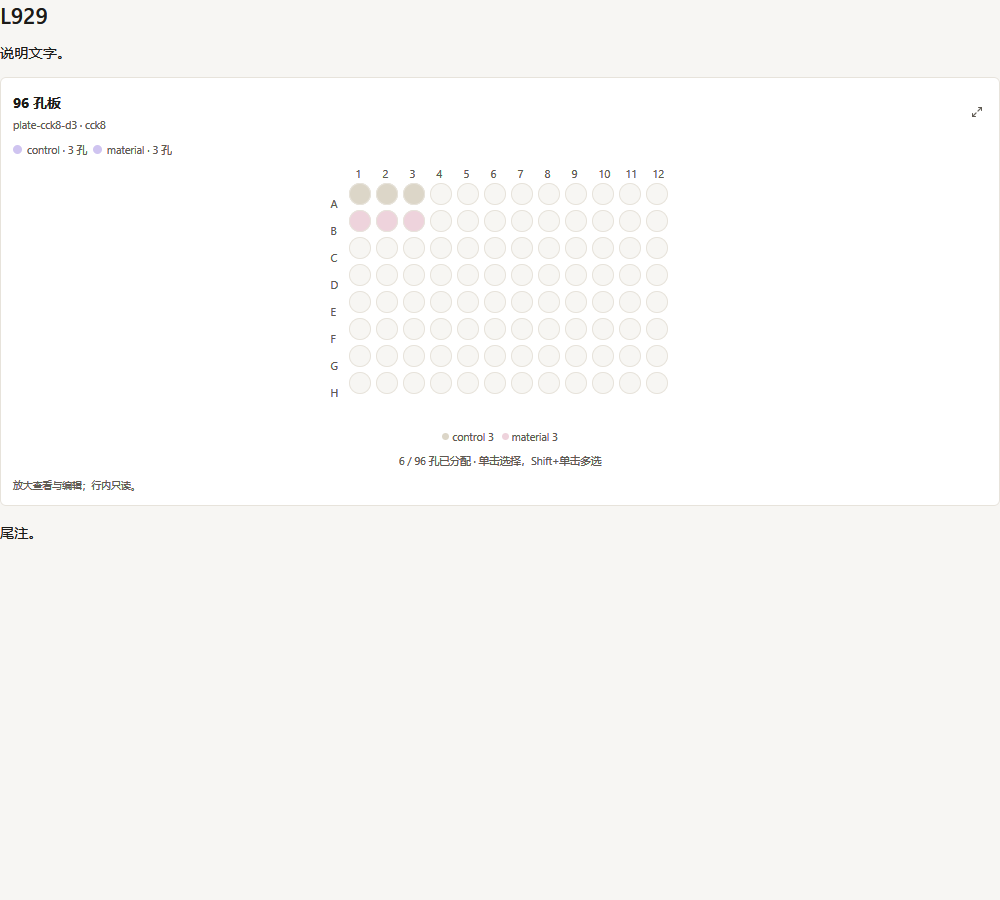
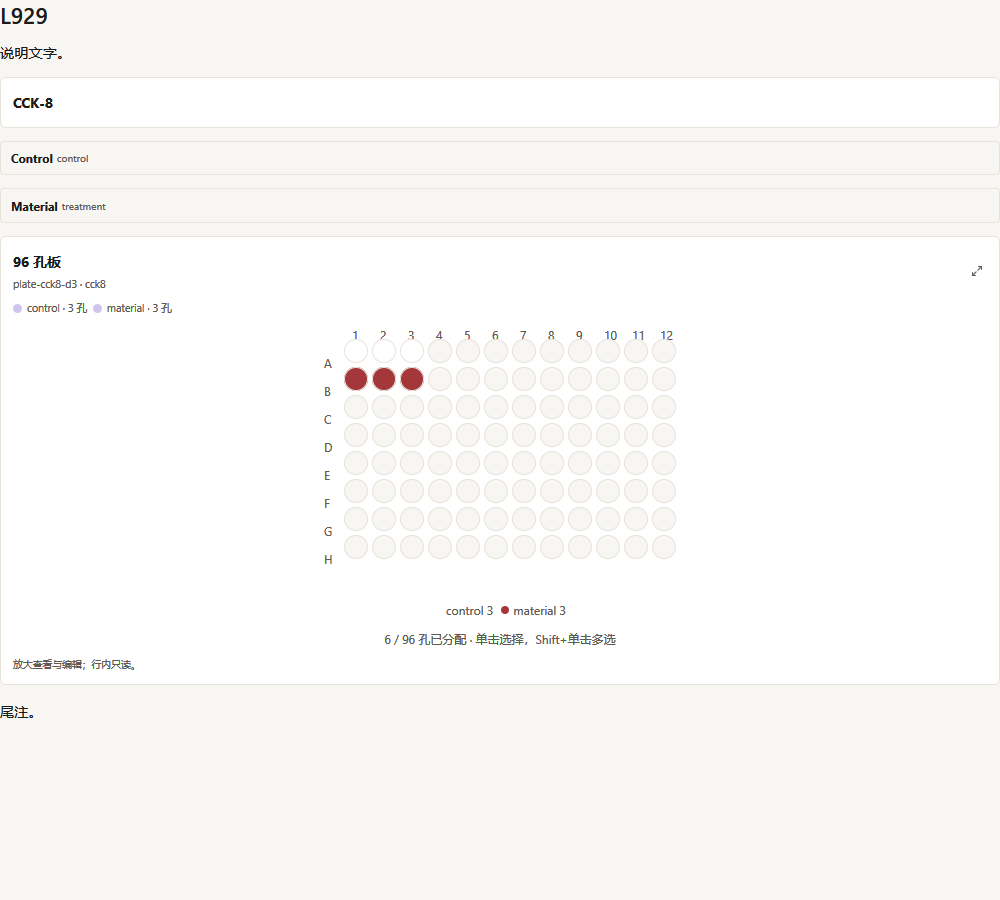
feat(design): fixed plate editor canvas with scaled wells
- Expanded plate editor keeps one 384-well-sized viewport at a given zoom; wells scale to fit; grid centered with drag offset compensation.
- Zoom, row/column, drag, group assignment, and compact inline preview unchanged; regression test pins shared viewport and monotonic well sizing.
- Evidence README: fixed-canvas behavior, UX-P3/P4/LAYOUT/DONE/DESIGN, exact test output, Tester captures incl. prep-calculator link surface; OperationSpec v2 budget note untouched.

diff --git a/prototypes/mygo-run/internal/asterdoc/view.go b/prototypes/mygo-run/internal/asterdoc/view.go
@@ -209,6 +209,34 @@ func (v *View) plate(c *ui.Context, p *Plate) {
 	})
 }
 
+const (
+	plateGridLabelWidth   = float32(24)
+	plateGridHeaderHeight = float32(18)
+	plateGridGap          = float32(4)
+	plateGridWellSize     = float32(18)
+)
+
+// ponytail: the canvas is sized for the largest supported 384-well plate; grow it if larger formats are added.
+func plateGridLayout(geometry Geometry, zoom float32) (viewportW, viewportH, cell float32) {
+	maxGeometry, _ := geometryFor(384)
+	viewportW = plateGridLabelWidth + plateGridGap +
+		float32(maxGeometry.Columns)*plateGridWellSize*zoom +
+		float32(maxGeometry.Columns-1)*plateGridGap
+	viewportH = plateGridHeaderHeight + plateGridGap +
+		float32(maxGeometry.Rows)*plateGridWellSize*zoom +
+		float32(maxGeometry.Rows-1)*plateGridGap
+
+	cellW := (viewportW - plateGridLabelWidth - plateGridGap -
+		float32(geometry.Columns-1)*plateGridGap) / float32(geometry.Columns)
+	cellH := (viewportH - plateGridHeaderHeight - plateGridGap -
+		float32(geometry.Rows-1)*plateGridGap) / float32(geometry.Rows)
+	cell = cellW
+	if cellH < cell {
+		cell = cellH
+	}
+	return viewportW, viewportH, cell
+}
+
 // plateOverlay floats the enlarged plate over a dimmed canvas. There is no
 // modal panel or inspector: the plate itself is the surface, with one floating
 // toolbar for zoom, group choice and batch assignment.
@@ -346,10 +374,14 @@ func (v *View) plateOverlay(c *ui.Context) {
 								}
 							})
 						})
-						cell := float32(30) * zoom
-						if plate.Format == 384 {
-							cell = 18 * zoom
-						}
+						viewportW, viewportH, cell := plateGridLayout(geometry, zoom)
+						gridW := plateGridLabelWidth + plateGridGap +
+							float32(geometry.Columns)*cell +
+							float32(geometry.Columns-1)*plateGridGap
+						gridH := plateGridHeaderHeight + plateGridGap +
+							float32(geometry.Rows)*cell +
+							float32(geometry.Rows-1)*plateGridGap
+						offsetX, offsetY := (viewportW-gridW)/2, (viewportH-gridH)/2
 						selectMany := func(ids []string, additive bool) {
 							if !additive {
 								v.ExpandedWells = nil
@@ -360,80 +392,82 @@ func (v *View) plateOverlay(c *ui.Context) {
 								}
 							}
 						}
-						const labelW = float32(24)
-						const headerH = float32(18)
-						const gap = float32(4)
-						grid := ui.Box(c).Key("plate-grid").Children(func() {
-							ui.Row(c).Gap(gap).Children(func() {
-								ui.Box(c).Width(labelW).Height(headerH)
-								for col := 1; col <= geometry.Columns; col++ {
-									col := col
-									btn := ui.ButtonBase(c).Width(cell).Height(headerH).
-										Label(fmt.Sprintf("选择第 %d 列", col))
-									btn.Children(func() {
-										ui.Text(c, fmt.Sprintf("%d", col)).FontSize(t.Rem(.62)).
-											TextColor(t.TextMuted).Center()
-									})
-									if btn.Clicked() && !v.gridDragging {
-										ids := make([]string, 0, geometry.Rows)
-										for row := 0; row < geometry.Rows; row++ {
-											ids = append(ids, fmt.Sprintf("%s%d", rowLabel(row), col))
-										}
-										selectMany(ids, btn.ClickModifiers()&(ui.Shift|ui.Cmd) != 0)
-									}
-								}
-							})
-							for row := 0; row < geometry.Rows; row++ {
-								row := row
-								ui.Row(c).Gap(gap).Children(func() {
-									btn := ui.ButtonBase(c).Width(labelW).Height(cell).
-										Label("选择第 " + rowLabel(row) + " 行")
-									btn.Children(func() {
-										ui.Text(c, rowLabel(row)).FontSize(t.Rem(.62)).TextColor(t.TextMuted).Center()
-									})
-									if btn.Clicked() && !v.gridDragging {
-										ids := make([]string, 0, geometry.Columns)
-										for col := 1; col <= geometry.Columns; col++ {
-											ids = append(ids, fmt.Sprintf("%s%d", rowLabel(row), col))
-										}
-										selectMany(ids, btn.ClickModifiers()&(ui.Shift|ui.Cmd) != 0)
-									}
+						grid := ui.Box(c).Key("plate-grid").Size(viewportW, viewportH).Children(func() {
+							ui.Column(c).Fill().AlignItems(ui.Center).Justify(ui.Center).Children(func() {
+								ui.Row(c).Gap(plateGridGap).Children(func() {
+									ui.Box(c).Width(plateGridLabelWidth).Height(plateGridHeaderHeight)
 									for col := 1; col <= geometry.Columns; col++ {
-										well := fmt.Sprintf("%s%d", rowLabel(row), col)
-										group := wells[well]
-										selected := containsString(v.ExpandedWells, well)
-										bg := t.Background
-										if group != "" {
-											bg = groupColor(group)
-										}
-										border := t.Border
-										width := float32(1)
-										if selected {
-											border, width = t.Accent, 2
-										}
-										btn := ui.ButtonBase(c).Key(well).Size(cell, cell).Radius(cell/2).
-											Background(bg).Border(width, border).Label("孔 " + well)
+										col := col
+										btn := ui.ButtonBase(c).Width(cell).Height(plateGridHeaderHeight).
+											Label(fmt.Sprintf("选择第 %d 列", col))
+										btn.Children(func() {
+											ui.Text(c, fmt.Sprintf("%d", col)).FontSize(t.Rem(.62)).
+												TextColor(t.TextMuted).Center()
+										})
 										if btn.Clicked() && !v.gridDragging {
-											mods := btn.ClickModifiers()
-											if mods&(ui.Shift|ui.Cmd) != 0 {
-												if selected {
-													v.ExpandedWells = removeString(v.ExpandedWells, well)
-												} else {
-													v.ExpandedWells = append(v.ExpandedWells, well)
-												}
-											} else {
-												v.ExpandedWells = []string{well}
+											ids := make([]string, 0, geometry.Rows)
+											for row := 0; row < geometry.Rows; row++ {
+												ids = append(ids, fmt.Sprintf("%s%d", rowLabel(row), col))
 											}
+											selectMany(ids, btn.ClickModifiers()&(ui.Shift|ui.Cmd) != 0)
 										}
 									}
 								})
-							}
+								for row := 0; row < geometry.Rows; row++ {
+									row := row
+									ui.Row(c).Gap(plateGridGap).Children(func() {
+										btn := ui.ButtonBase(c).Width(plateGridLabelWidth).Height(cell).
+											Label("选择第 " + rowLabel(row) + " 行")
+										btn.Children(func() {
+											ui.Text(c, rowLabel(row)).FontSize(t.Rem(.62)).TextColor(t.TextMuted).Center()
+										})
+										if btn.Clicked() && !v.gridDragging {
+											ids := make([]string, 0, geometry.Columns)
+											for col := 1; col <= geometry.Columns; col++ {
+												ids = append(ids, fmt.Sprintf("%s%d", rowLabel(row), col))
+											}
+											selectMany(ids, btn.ClickModifiers()&(ui.Shift|ui.Cmd) != 0)
+										}
+										for col := 1; col <= geometry.Columns; col++ {
+											well := fmt.Sprintf("%s%d", rowLabel(row), col)
+											group := wells[well]
+											selected := containsString(v.ExpandedWells, well)
+											bg := t.Background
+											if group != "" {
+												bg = groupColor(group)
+											}
+											border := t.Border
+											width := float32(1)
+											if selected {
+												border, width = t.Accent, 2
+											}
+											btn := ui.ButtonBase(c).Key(well).Size(cell, cell).Radius(cell/2).
+												Background(bg).Border(width, border).Label("孔 " + well)
+											if btn.Clicked() && !v.gridDragging {
+												mods := btn.ClickModifiers()
+												if mods&(ui.Shift|ui.Cmd) != 0 {
+													if selected {
+														v.ExpandedWells = removeString(v.ExpandedWells, well)
+													} else {
+														v.ExpandedWells = append(v.ExpandedWells, well)
+													}
+												} else {
+													v.ExpandedWells = []string{well}
+												}
+											}
+										}
+									})
+								}
+							})
 						})
 						grid.Draggable(&v.gridDrag, ui.DraggableOptions{})
 						if grid.Dragging() {
 							px, py, ok := grid.PointerPosition()
 							if ok {
-								local := ui.Point{X: px - labelW - gap, Y: py - headerH - gap}
+								local := ui.Point{
+									X: px - offsetX - plateGridLabelWidth - plateGridGap,
+									Y: py - offsetY - plateGridHeaderHeight - plateGridGap,
+								}
 								if !v.gridDragging {
 									v.gridDragging = true
 									v.gridStart, v.gridLast = local, local
@@ -445,7 +479,7 @@ func (v *View) plateOverlay(c *ui.Context) {
 								v.gridLast = local
 								r := ui.Rect{X: v.gridStart.X, Y: v.gridStart.Y,
 									W: local.X - v.gridStart.X, H: local.Y - v.gridStart.Y}
-								selected := WellsInRect(geometry, cell, gap, r)
+								selected := WellsInRect(geometry, cell, plateGridGap, r)
 								v.ExpandedWells = append([]string(nil), v.gridBase...)
 								for _, id := range selected {
 									if !containsString(v.ExpandedWells, id) {

diff --git a/prototypes/mygo-run/internal/asterdoc/asterdoc_test.go b/prototypes/mygo-run/internal/asterdoc/asterdoc_test.go
@@ -329,6 +329,39 @@ func TestPlateFormatsUseEditableOverlay(t *testing.T) {
 	}
 }
 
+func TestPlateGridLayoutKeepsCanvasAndScalesWells(t *testing.T) {
+	formats := []int{6, 12, 24, 48, 96, 384}
+	var viewportW, viewportH, previousCell float32
+	for i, format := range formats {
+		geometry, ok := geometryFor(format)
+		if !ok {
+			t.Fatalf("%d-well geometry is unavailable", format)
+		}
+		width, height, cell := plateGridLayout(geometry, 1)
+		if i == 0 {
+			viewportW, viewportH = width, height
+		} else if width != viewportW || height != viewportH {
+			t.Fatalf("%d-well viewport = %gx%g; want %gx%g",
+				format, width, height, viewportW, viewportH)
+		}
+		if i > 0 && cell >= previousCell {
+			t.Fatalf("%d-well cell = %g; want smaller than %g",
+				format, cell, previousCell)
+		}
+		gridW := plateGridLabelWidth + plateGridGap +
+			float32(geometry.Columns)*cell +
+			float32(geometry.Columns-1)*plateGridGap
+		gridH := plateGridHeaderHeight + plateGridGap +
+			float32(geometry.Rows)*cell +
+			float32(geometry.Rows-1)*plateGridGap
+		if gridW > width+0.01 || gridH > height+0.01 {
+			t.Fatalf("%d-well grid %gx%g exceeds viewport %gx%g",
+				format, gridW, gridH, width, height)
+		}
+		previousCell = cell
+	}
+}
+
 func TestHUVECTubeExperimentParses(t *testing.T) {
 	raw, err := os.ReadFile("testdata/huvec-tube.asterml")
 	if err != nil {

diff --git a/docs/product/evidence/UI-DES-10/README.md b/docs/product/evidence/UI-DES-10/README.md
@@ -2,11 +2,12 @@
 
 ## Design consistency
 
-The plate renderer extends the existing `internal/uikit/plate` widget and uses the shared `theme.GetTokens` palette and spacing/type scale; the Design budget bar remains the existing `internal/designer` bar and keeps Core and annotation values source-labeled and separate.
+The plate renderer extends the existing `internal/uikit/plate` widget and uses the shared `theme.GetTokens` palette and spacing/type scale. The expanded editor keeps a fixed 384-well-sized canvas across plate formats and scales well size to fit; the inline read-only preview remains compact. The grid is centered in the fixed viewport and the drag-marquee mapping subtracts that centering offset, so row/column selection and drag selection behave the same on every format. The Design budget bar remains the existing `internal/designer` bar and keeps Core and annotation values source-labeled and separate.
+UX rules: `UX-P3`, `UX-P4`, `UX-LAYOUT`, `UX-DONE`, `UX-DESIGN`.
 
 ## Screenshot evidence
 
-Captured from the rebuilt app at build stamp `608b57d` using `mygo-automation` and the isolated `DES-10 Plate Geometry` fixture. Window sizes are logical DIPs; Windows 150% scaling produces 2018×1308 and 1328×888 PNGs.
+Full-app captures (build stamp `608b57d`, `mygo-automation`, isolated `DES-10 Plate Geometry` fixture; logical DIPs, Windows 150% scaling produces 2018×1308 and 1328×888 PNGs). They predate the fixed-canvas change and remain the toolbar / dark-mode / budget-bar record:
 
 - [plate-12-light-900x600.png](plate-12-light-900x600.png) — light, 12 wells, C4 selected; budget bar visible.
 - [plate-12-dark-900x600.png](plate-12-dark-900x600.png) — dark, 12 wells, C4 selected; budget bar visible.
@@ -14,9 +15,25 @@ Captured from the rebuilt app at build stamp `608b57d` using `mygo-automation` a
 - [plate-384-light-1360x880.png](plate-384-light-1360x880.png) — light, 384 wells, P24 selected and assigned to `g-control`.
 - [plate-384-dark-1360x880.png](plate-384-dark-1360x880.png) — dark, 384 wells, P24 selected and assigned to `g-control`.
 
-All captures show the `设计标注` fallback with Core budget fields `—` and no OperationSpec v2 time data; the sources are not combined. `internal/asterdoc` tests cover interactive 6/12/24/48/96/384 geometry. The legacy assay assignment path remains 12-well-specific.
+Post-change captures rendered through the `ui.Tester` harness against the production overlay / Design code (1200×900 and 900×600 logical px). They show the fixed footprint, scaled wells, and the prep-calculator link surface:
 
-Verification: `go test ./internal/asterdoc -count=1`, `go test ./internal/designer -count=1`, and `scripts/mygo-build.ps1` passed.
+- [overlay-12-tester-1200x900.png](overlay-12-tester-1200x900.png) — 12-well overlay, C4 selected; editor card spans the same x-range as the 384-well capture below, wells scaled up.
+- [overlay-384-tester-1200x900.png](overlay-384-tester-1200x900.png) — 384-well overlay, P24 selected; same editor footprint, wells scaled down.
+- [design-plate-tester-900x600.png](design-plate-tester-900x600.png) — Design pane `12 孔板` section with the `流程 / 12 孔板 / 配液单` switch (the prep-calculator link) and the source-labeled budget bar.
+- [design-prep-tester-900x600.png](design-prep-tester-900x600.png) — Design pane `配液单` dilution-calculator surface (`母液 2.5 µL · 稀释液 7.5 µL`).
+
+All captures show the `设计标注` fallback with Core budget fields `—` and no OperationSpec v2 time data; the sources are not combined. `internal/asterdoc` tests cover the shared canvas, scaled wells, and interactive 6/12/24/48/96/384 geometry. The legacy assay assignment path remains 12-well-specific.
+
+Verification (`O:/des10/prototypes/mygo-run`, 2026-11-16):
+
+```text
+ok  asterlab-mygo-prototype/internal/asterdoc      1.810s
+ok  asterlab-mygo-prototype/internal/designer      0.822s
+ok  asterlab-mygo-prototype/internal/workflowtree  0.324s
+ok  asterlab-mygo-prototype/internal/uikit/plate   2.181s
+```
+
+Focused plate runs: `TestPlateZoomOverlaySelectsWellsAndReportsAssignment`, `TestPlateFormatsUseEditableOverlay` (6/12/24/48/96/384), `TestPlateGridLayoutKeepsCanvasAndScalesWells`, `TestPlateMixPlanDerivesGelAndSeedingRows`, `TestPlateMixRejectsInconsistentPlans` — all PASS. Impeccable `detect --json internal/asterdoc/view.go` — `[]` (no findings).
 
 ## 缺口
 
